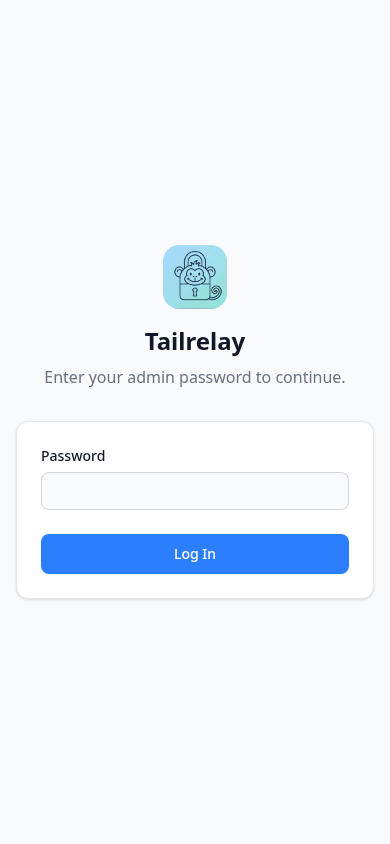
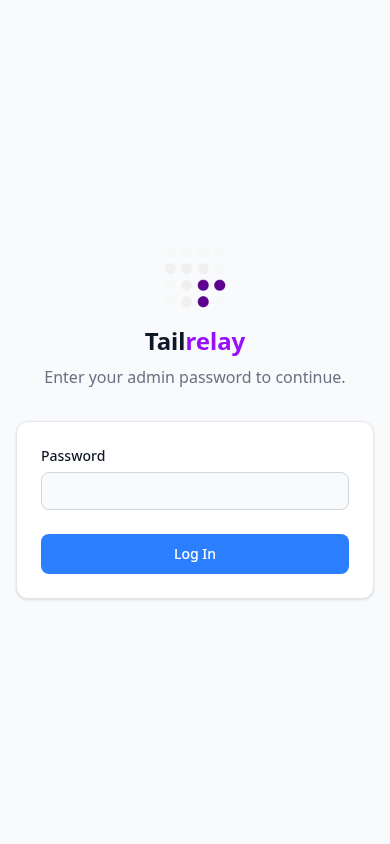
style(webui): restyle auth tabs/toggles and purple 'relay' brand
- restyle Login URL/Auth Key tab switcher to a pill shape with solid amber-600 active fill, matching the toggle switch aesthetic
- shrink the enable/disable Toggle component and the ItemMenu "..." action button to ~70% of their prior height
- highlight "relay" in purple in the navbar brand and the login page heading, matching the existing logo accent
- regenerate all 18 docs/screenshots to reflect the updated styling

closes #75

see pull request #76

Changed region(s): [[0.4, 0.2773, 0.6462, 0.4313]]

diff --git a/webui/frontend/src/lib/components/Tailscale.svelte b/webui/frontend/src/lib/components/Tailscale.svelte
@@ -416,18 +416,18 @@
       </div>
 
       <!-- Tab switcher -->
-      <div class="flex gap-1 rounded-md bg-amber-100 dark:bg-amber-900/40 p-0.5 w-fit">
+      <div class="flex gap-1 rounded-full bg-amber-100 dark:bg-amber-900/40 p-0.5 w-fit">
         <button
-          class="px-3 py-1 text-xs font-medium rounded transition-colors {authTab === 'url'
-            ? 'bg-white dark:bg-gray-800 text-amber-800 dark:text-amber-200 shadow-sm'
+          class="px-3 py-1 text-xs font-medium rounded-full transition-colors {authTab === 'url'
+            ? 'bg-amber-600 text-white'
             : 'text-amber-700 dark:text-amber-400 hover:text-amber-900 dark:hover:text-amber-200'}"
           onclick={() => { authTab = 'url'; authKeyError = ''; }}
         >
           Login URL
         </button>
         <button
-          class="px-3 py-1 text-xs font-medium rounded transition-colors {authTab === 'key'
-            ? 'bg-white dark:bg-gray-800 text-amber-800 dark:text-amber-200 shadow-sm'
+          class="px-3 py-1 text-xs font-medium rounded-full transition-colors {authTab === 'key'
+            ? 'bg-amber-600 text-white'
             : 'text-amber-700 dark:text-amber-400 hover:text-amber-900 dark:hover:text-amber-200'}"
           onclick={() => { authTab = 'key'; stopLoginPoll(); loginURL = ''; }}
         >

diff --git a/webui/frontend/src/lib/components/Toggle.svelte b/webui/frontend/src/lib/components/Toggle.svelte
@@ -18,11 +18,11 @@
   aria-label={label}
   {disabled}
   onclick={() => onChange?.(!checked)}
-  class="relative inline-flex h-6 w-11 flex-shrink-0 items-center rounded-full transition-colors focus:outline-none focus:ring-2 focus:ring-blue-500 focus:ring-offset-2 dark:focus:ring-offset-gray-900 disabled:opacity-50 disabled:cursor-not-allowed {checked
+  class="relative inline-flex h-4 w-8 flex-shrink-0 items-center rounded-full transition-colors focus:outline-none focus:ring-2 focus:ring-blue-500 focus:ring-offset-2 dark:focus:ring-offset-gray-900 disabled:opacity-50 disabled:cursor-not-allowed {checked
     ? 'bg-blue-600'
     : 'bg-gray-300 dark:bg-gray-600'}"
 >
   <span
-    class="inline-block h-4 w-4 transform rounded-full bg-white shadow transition-transform {checked ? 'translate-x-6' : 'translate-x-1'}"
+    class="inline-block h-3 w-3 transform rounded-full bg-white shadow transition-transform {checked ? 'translate-x-4' : 'translate-x-0.5'}"
   ></span>
 </button>

diff --git a/webui/frontend/src/lib/components/Navbar.svelte b/webui/frontend/src/lib/components/Navbar.svelte
@@ -69,7 +69,7 @@
       <!-- Brand -->
       <button class="flex items-center gap-2 text-lg font-semibold tracking-tight hover:opacity-80 transition-opacity" onclick={() => switchView('dashboard')}>
         <img src="/icon-192.png" alt="Tailrelay" class="w-7 h-7 rounded-lg object-contain flex-shrink-0" width="28" height="28" />
-        Tailrelay
+        <span>Tail<span class="text-purple-600 dark:text-purple-400">relay</span></span>
       </button>
 
       <!-- Desktop nav -->

diff --git a/webui/frontend/src/lib/components/Login.svelte b/webui/frontend/src/lib/components/Login.svelte
@@ -41,7 +41,7 @@
   <div class="w-full max-w-sm">
     <div class="text-center mb-8">
       <img src="/icon-192.png" alt="Tailrelay" class="w-16 h-16 rounded-2xl mb-4 mx-auto" />
-      <h1 class="text-2xl font-bold mb-2">Tailrelay</h1>
+      <h1 class="text-2xl font-bold mb-2">Tail<span class="text-purple-600 dark:text-purple-400">relay</span></h1>
       <p class="text-gray-500 dark:text-gray-400">
         Enter your admin password to continue.
       </p>

diff --git a/webui/frontend/src/lib/components/ItemMenu.svelte b/webui/frontend/src/lib/components/ItemMenu.svelte
@@ -158,10 +158,10 @@
   aria-haspopup="menu"
   aria-expanded={open}
   aria-label="More actions"
-  class="p-1.5 rounded-md hover:bg-gray-100 dark:hover:bg-gray-800 text-gray-500 transition-colors"
+  class="p-1 rounded-md hover:bg-gray-100 dark:hover:bg-gray-800 text-gray-500 transition-colors"
   onclick={toggleMenu}
 >
-  <MoreHorizontal size={15} />
+  <MoreHorizontal size={11} />
 </button>
 
 {#if open}
